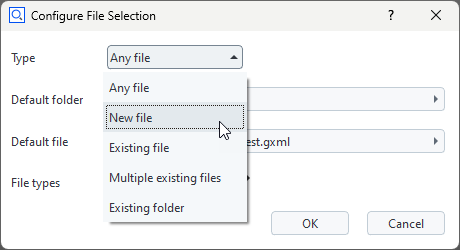
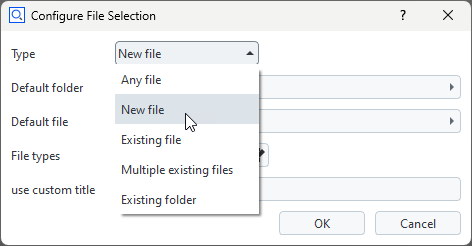
Added custom title documentation

diff --git a/doc/howtos/python_api_introduction/file_selection_dialog.md b/doc/howtos/python_api_introduction/file_selection_dialog.md
@@ -28,7 +28,10 @@ Default file (optional)
  
 File types
 : Allows to filter files by file extension pattern
- 
+
+Use custom title (optional)
+: Allows to set a custom dialog window title
+
 After completing the configuration dialog, `choose_file()` is inserted into the source code. You change its configuration by clicking on the command `choose_file()` again.
 
 ## Scripting `choose_file()`
@@ -44,6 +47,7 @@ Parameters:
 | folder             | base folder           | QString      |      
 | file               | default selected file | QString      |      
 | selection_type     | selection type        | QString      |
+| title              | dialog title          | QString      |
 
 ## Return value
 
@@ -58,12 +62,13 @@ If the dialog is cancelled, a `RequestError` exception is thrown.
 ## Example
 
 ```{code-block} python
-file=gom.script.sys.choose_file_draft (
+file=gom.script.sys.choose_file (
 	file_types=[['*.zxml', 'ZEISS INSPECT exchange'], ['*.gxml', 'ZEISS INSPECT exchange']], 
 	file_types_default='*.zxml', 
 	file='C:/temp/Test.zxml', 
 	folder='C:/temp/', 
-	selection_type='load file')
+	selection_type='load file',
+  title="Import data from exchange file")
 
 print(f'{file=}')
 # Output: file=C:/temp/Test.gxml
